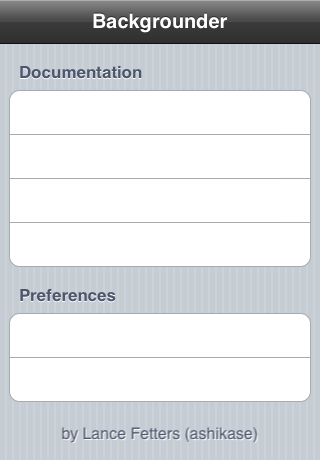
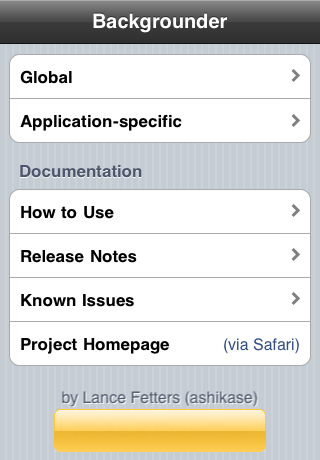
Rearranged main screen of prefs app; added donation button
git-svn-id: file:///tmp/bg/local_repo/trunk@272 79926bab-e5c8-44ff-bb3f-fbd5546299b2

diff --git a/PrefsApp/RootController.m b/PrefsApp/RootController.m
@@ -3,7 +3,7 @@
  * Type: iPhone OS SpringBoard extension (MobileSubstrate-based)
  * Description: allow applications to run in the background
  * Author: Lance Fetters (aka. ashikase)
- * Last-modified: 2009-08-26 00:49:25
+ * Last-modified: 2009-09-10 22:51:00
  */
 
 /**
@@ -93,24 +93,26 @@
 
 - (NSString *)tableView:(UITableView *)tableView titleForHeaderInSection:(int)section
 {
-    static NSString *headers[] = {@"Documentation", @"Preferences", nil};
+    static NSString *headers[] = {nil, @"Documentation", nil, nil};
     return headers[section];
 }
 
 - (int)tableView:(UITableView *)tableView numberOfRowsInSection:(int)section
 {
-    static int rows[] = {4, 2, 1};
+    static int rows[] = {2, 4, 2};
     return rows[section];
 }
 
 - (UITableViewCell *)tableView:(UITableView *)tableView cellForRowAtIndexPath:(NSIndexPath *)indexPath
 {
+    static NSString *reuseIdDonate = @"DonateCell";
     static NSString *reuseIdName = @"NameCell";
     static NSString *reuseIdSafari = @"SafariCell";
     static NSString *reuseIdSimple = @"SimpleCell";
 
     UITableViewCell *cell = nil;
-    if (indexPath.section == 0 && indexPath.row == 3) {
+
+    if (indexPath.section == 1 && indexPath.row == 3) {
         // Try to retrieve from the table view a now-unused cell with the given identifier
         cell = [tableView dequeueReusableCellWithIdentifier:reuseIdSafari];
         if (cell == nil) {
@@ -131,38 +133,62 @@
 
         [cell setText:@"Project Homepage"];
     } else if (indexPath.section == 2) {
-        // Credits cell
-        // Try to retrieve from the table view a now-unused cell with the given identifier
-        cell = [tableView dequeueReusableCellWithIdentifier:reuseIdName];
-        if (cell == nil) {
-            // Cell does not exist, create a new one
-            cell = [[[UITableViewCell alloc] initWithFrame:CGRectZero reuseIdentifier:reuseIdName] autorelease];
-            [cell setSelectionStyle:0]; // None
+        if (indexPath.row == 0) {
+            // Credits cell
+            // Try to retrieve from the table view a now-unused cell with the given identifier
+            cell = [tableView dequeueReusableCellWithIdentifier:reuseIdName];
+            if (cell == nil) {
+                // Cell does not exist, create a new one
+                cell = [[[UITableViewCell alloc] initWithFrame:CGRectZero reuseIdentifier:reuseIdName] autorelease];
+                [cell setSelectionStyle:0]; // None
 
-            // Make cell background transparent
-            UIView *bgView = [[UIView alloc] initWithFrame:CGRectZero];
-            [bgView setBackgroundColor:[UIColor clearColor]];
-            [cell setBackgroundView:bgView];
-            [bgView release];
+                // Make cell background transparent
+                UIView *bgView = [[UIView alloc] initWithFrame:CGRectZero];
+                [bgView setBackgroundColor:[UIColor clearColor]];
+                [cell setBackgroundView:bgView];
+                [bgView release];
 
-            // Must create own label to allow transparency
-            UILabel *label = [[UILabel alloc] initWithFrame:CGRectZero];
-            [label setText:@"by Lance Fetters (ashikase)"];
-            [label setTextColor:[UIColor colorWithRed:0.3f green:0.34f blue:0.42f alpha:1.0f]];
-            [label setShadowColor:[UIColor whiteColor]];
-            [label setShadowOffset:CGSizeMake(1, 1)];
-            [label setBackgroundColor:[UIColor clearColor]];
-            [label setFont:[UIFont systemFontOfSize:16.0f]];
-            CGSize size = [label.text sizeWithFont:label.font];
-            [label setFrame:CGRectMake((300.0f - size.width) / 2.0f, 0, size.width, size.height)];
+                // Must create own label to allow transparency
+                UILabel *label = [[UILabel alloc] initWithFrame:CGRectZero];
+                [label setText:@"by Lance Fetters (ashikase)"];
+                [label setTextColor:[UIColor colorWithRed:0.3f green:0.34f blue:0.42f alpha:1.0f]];
+                [label setShadowColor:[UIColor whiteColor]];
+                [label setShadowOffset:CGSizeMake(1, 1)];
+                [label setBackgroundColor:[UIColor clearColor]];
+                [label setFont:[UIFont systemFontOfSize:16.0f]];
+                CGSize size = [label.text sizeWithFont:label.font];
+                [label setFrame:CGRectMake((300.0f - size.width) / 2.0f, 0, size.width, size.height)];
 
-            [[cell contentView] addSubview:label];
-            [label release];
+                [[cell contentView] addSubview:label];
+                [label release];
+            }
+        } else {
+            // Donation button cell
+            // Try to retrieve from the table view a now-unused cell with the given identifier
+            cell = [tableView dequeueReusableCellWithIdentifier:reuseIdDonate];
+            if (cell == nil) {
+                // Cell does not exist, create a new one
+                cell = [[[UITableViewCell alloc] initWithFrame:CGRectZero reuseIdentifier:reuseIdDonate] autorelease];
+                [cell setSelectionStyle:0]; // None
+
+                // Make cell background transparent
+                UIView *bgView = [[UIView alloc] initWithFrame:CGRectZero];
+                [bgView setBackgroundColor:[UIColor clearColor]];
+                [cell setBackgroundView:bgView];
+                [bgView release];
+
+                // Add image
+                UIImageView *imageView = [[UIImageView alloc] initWithImage:[UIImage imageNamed:@"donate.png"]];
+                CGSize size = [imageView frame].size;
+                [imageView setFrame:CGRectMake((300.0f - size.width) / 2.0f, 0, size.width, size.height)];
+                [[cell contentView] addSubview:imageView];
+                [imageView release];
+            }
         }
     } else {
         static NSString *cellTitles[][3] = {
-            { @"How to Use", @"Release Notes", @"Known Issues" },
-            { @"Global", @"Application-specific", nil }
+            { @"Global", @"Application-specific", nil },
+            { @"How to Use", @"Release Notes", @"Known Issues" }
         };
 
         // Try to retrieve from the table view a now-unused cell with the given identifier
@@ -183,7 +209,7 @@
 
 - (float)tableView:(UITableView *)tableView heightForRowAtIndexPath:(NSIndexPath *)indexPath
 {
-    return (indexPath.section == 2) ? 22.0f : 44.0f;
+    return (indexPath.section == 2 && indexPath.row == 0) ? 22.0f : 44.0f;
 }
 
 - (void)tableView:(UITableView *)tableView didSelectRowAtIndexPath:(NSIndexPath *)indexPath
@@ -191,6 +217,12 @@
     UIViewController *vc = nil;
 
     if (indexPath.section == 0) {
+        // Preferences
+        if (indexPath.row == 0)
+            vc = [[[GlobalPrefsController alloc] initWithStyle:1] autorelease];
+        else
+            vc = [[[AppSpecificPrefsController alloc] initWithStyle:1] autorelease];
+    } else if (indexPath.section == 1) {
         // Documentation
         static NSString *fileNames[] = { @"usage.html", @"release_notes.html", @"known_issues.html" };
         static NSString *titles[] = { @"How to Use", @"Release Notes", @"Known Issues" };
@@ -202,19 +234,9 @@
             vc = [[[DocumentationController alloc]
                 initWithContentsOfFile:fileNames[indexPath.row] title:titles[indexPath.row]]
                 autorelease];
-    } else if (indexPath.section == 1) {
-        // Preferences
-        if (indexPath.row == 0)
-            vc = [[[GlobalPrefsController alloc] initWithStyle:1] autorelease];
-        else
-            vc = [[[AppSpecificPrefsController alloc] initWithStyle:1] autorelease];
-#if 0
     } else {
-        // Credits
-        NSString *link = [NSString stringWithFormat:@"mailto:%s@%s?subject=%s",
-            "gaizin", "gmail.com", "[Backgrounder]"];
-        [[UIApplication sharedApplication] openURL:[NSURL URLWithString:link]];
-#endif
+        // Donation
+        [[UIApplication sharedApplication] openURL:[NSURL URLWithString:@"https://www.paypal.com/cgi-bin/webscr?cmd=_donations&business=gaizin%40gmail%2ecom&lc=US&currency_code=USD&bn=PP%2dDonationsBF%3abtn_donateCC_LG%2egif%3aNonHostedGuest"]];
     }
 
     if (vc)
